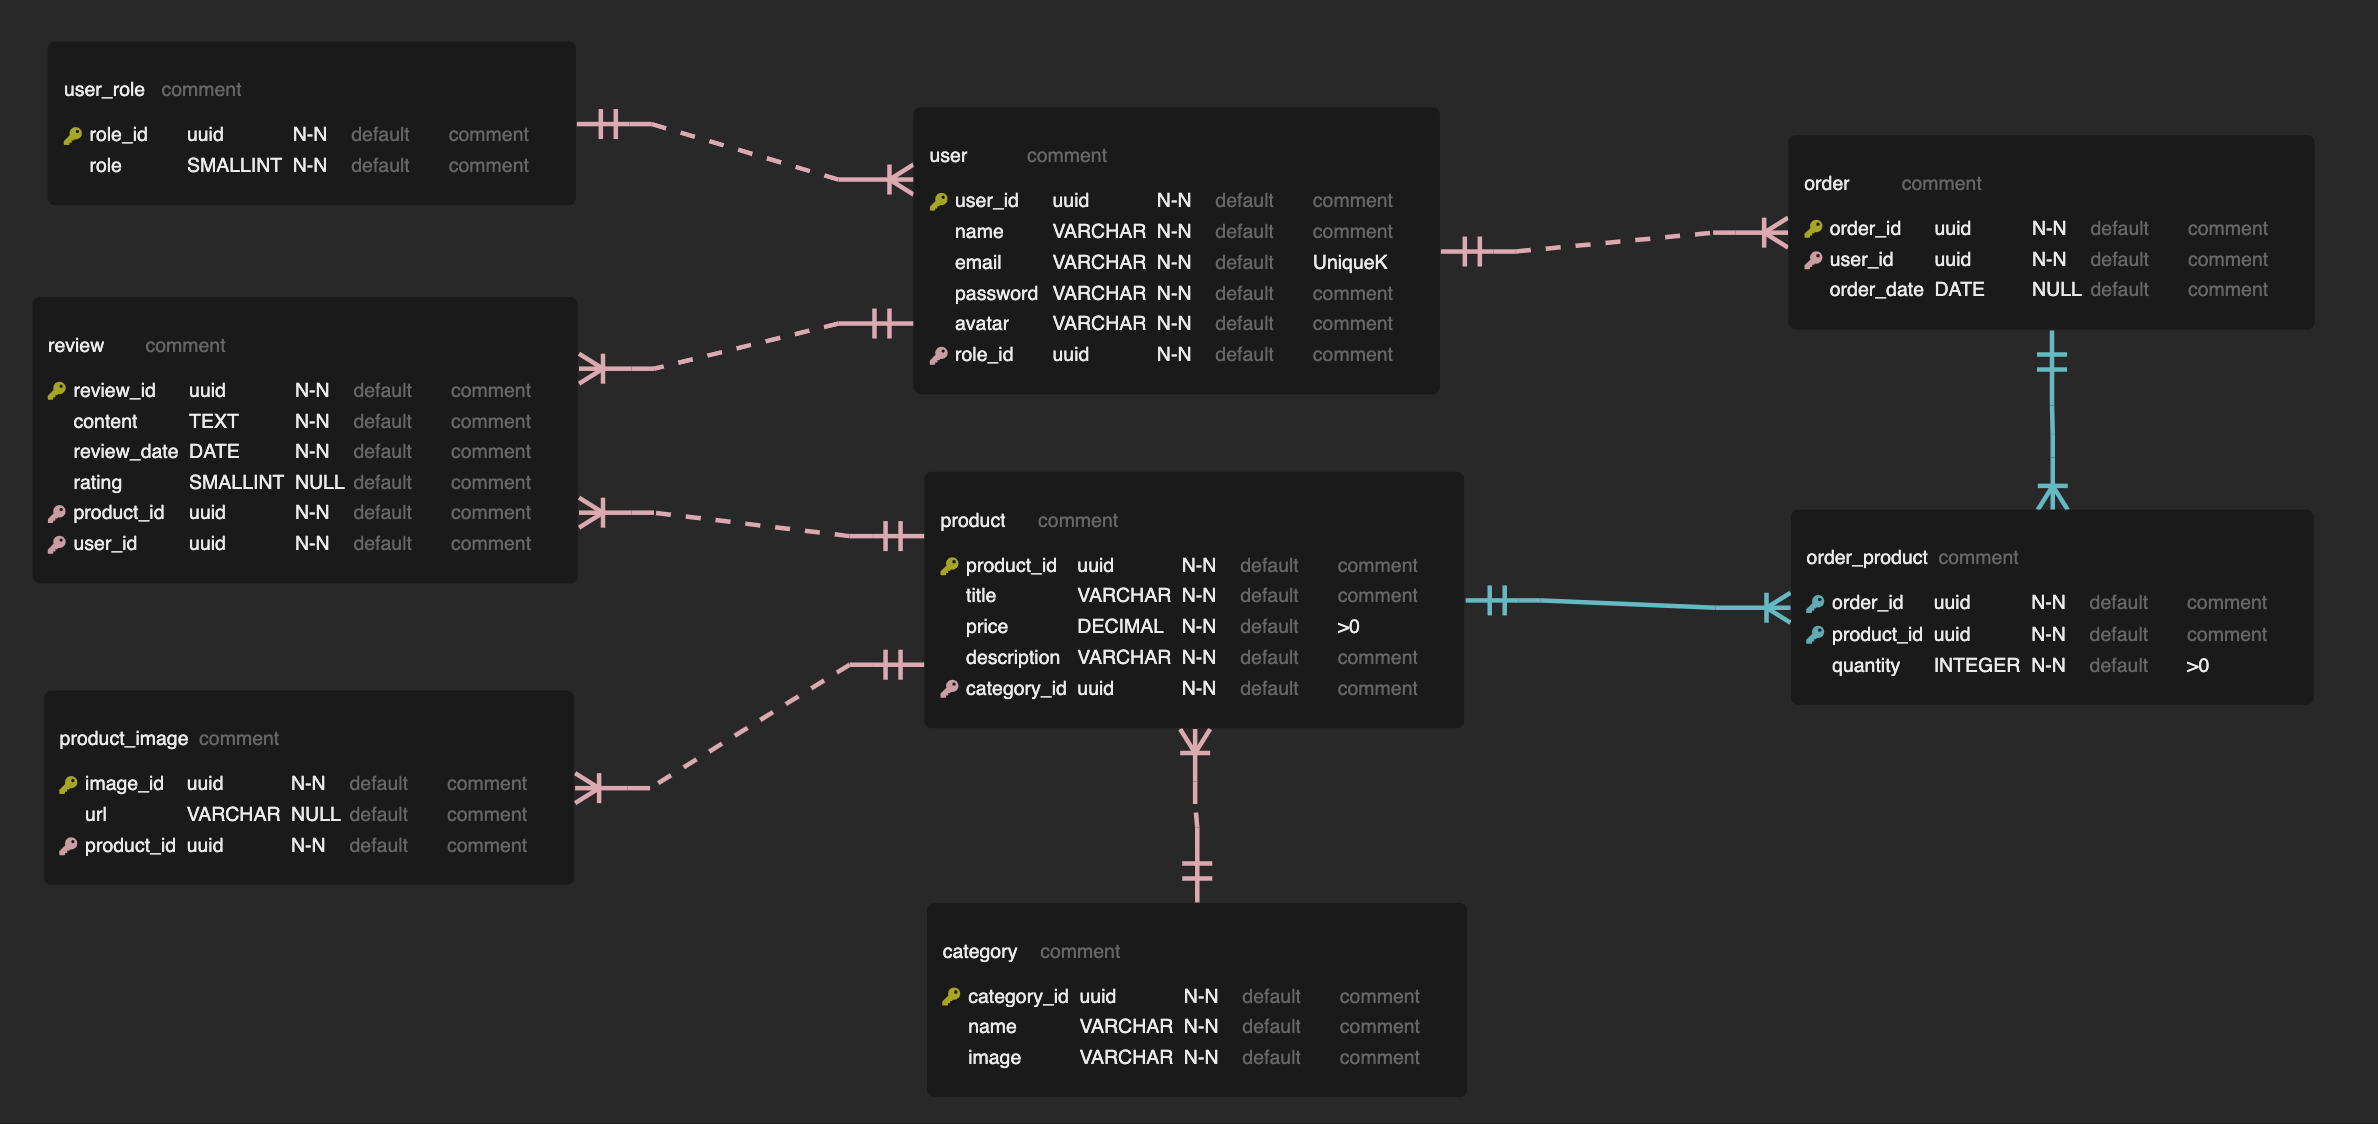
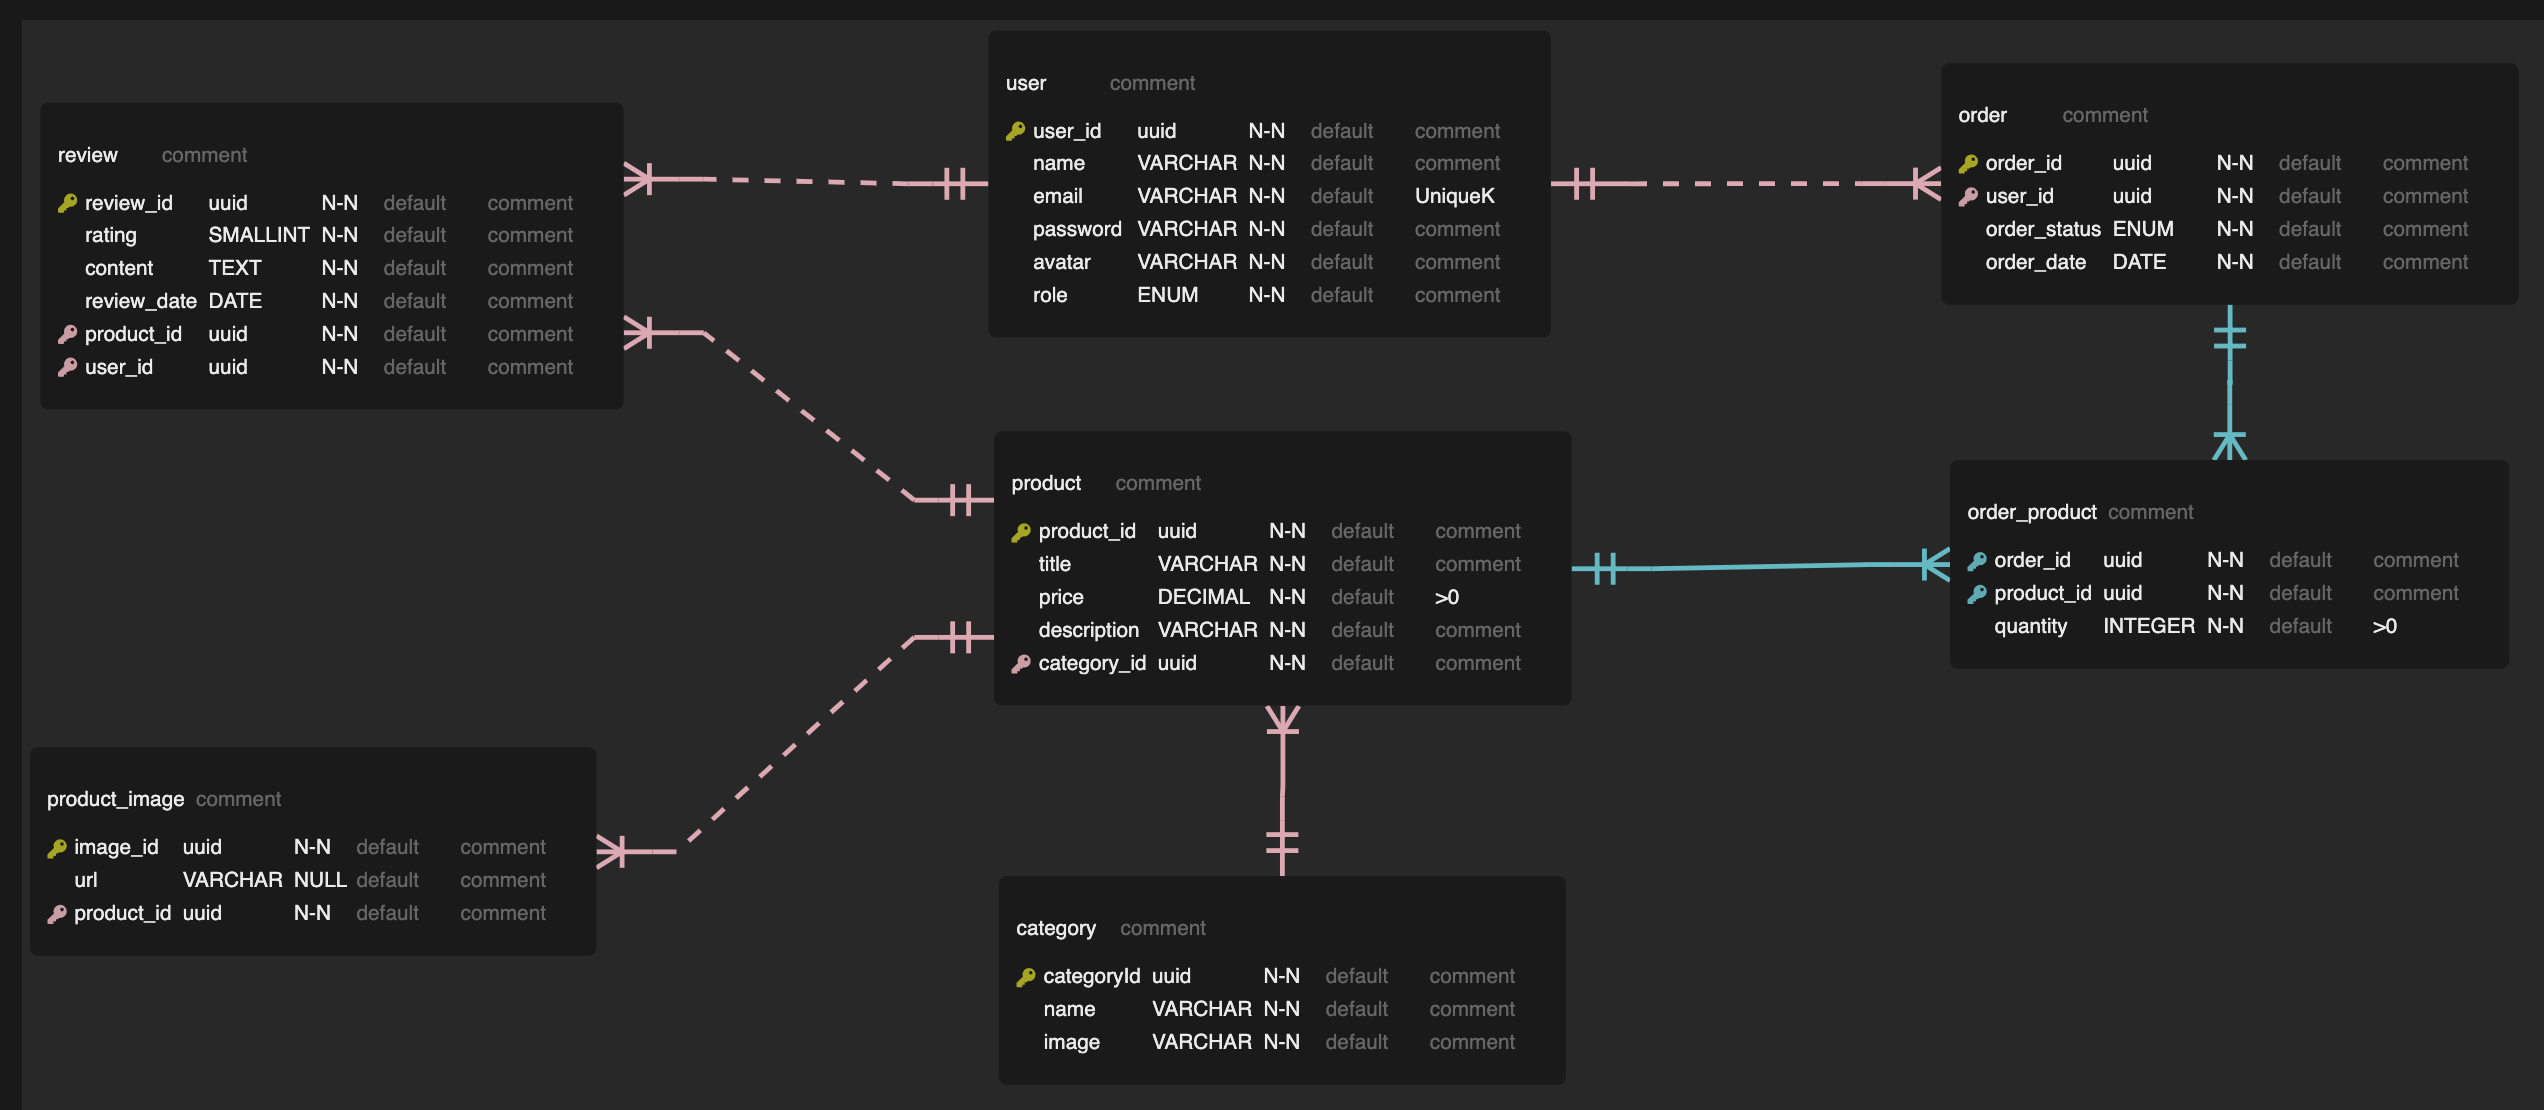
ERD updated order_status

diff --git a/UserEndpoints.md b/UserEndpoints.md
@@ -1,0 +1,26 @@
+## Users Endpoints
+baseURL: www.ecommerce.com 
+Retrieve a list of all registered users. [GET] /api/v1/users 
+HTTP response status codes 200  
+Response: 
+[
+    {
+        "id": 1,
+        "email": "jenny@mail.com",
+        "password": "happynewyear",
+        "name": "Jenny",
+        "role": "customer",
+        "avatar": "https://i.imgur.com/LDOO4Qs.jpg",
+    },
+    {
+        "id": 2,
+        "email": "minna@mail.com",
+        "password": "threadwest",
+        "name": "Minna",
+        "role": "customer",
+        "avatar": "https://i.imgur.com/LDOO4Qs.jpg",
+    },
+    ...
+]
+
+
